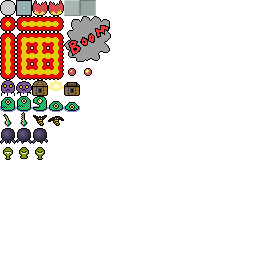
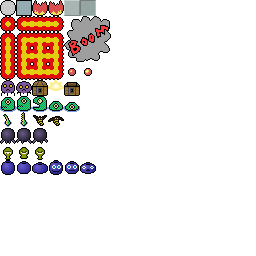
Blueberry monster. Also fixed a physics divide-by-zero glitch when sprites are in the exact same location.

Changed region(s): [[0.0, 0.625, 0.375, 0.6875]]

diff --git a/src/game/sprites/ps_sprite_blueberry.c b/src/game/sprites/ps_sprite_blueberry.c
@@ -1,0 +1,265 @@
+#include "ps.h"
+#include "game/ps_sprite.h"
+#include "game/ps_game.h"
+#include "akgl/akgl.h"
+#include <math.h>
+
+#define PS_BLUEBERRY_NODE_LIMIT 6
+#define PS_BLUEBERRY_NODE_OFFSET (PS_TILESIZE-5)
+#define PS_BLUEBERRY_WALK_SPEED 1.0
+#define PS_BLUEBERRY_SINEC 60
+#define PS_BLUEBERRY_BOUNCEM_DEFAULT 3.0
+#define PS_BLUEBERRY_INVINCIBLE_TIME 60
+
+/* Private sprite object.
+ */
+
+static double ps_blueberry_sinev[PS_BLUEBERRY_SINEC];
+static double ps_blueberry_walk_attenuationv[PS_BLUEBERRY_SINEC];
+static int ps_blueberry_sinev_valid=0;
+
+struct ps_sprite_blueberry {
+  struct ps_sprite hdr;
+  int nodec;
+  double dx,dy;
+  int bouncep; // Position in wave function.
+  double bouncem; // Magnitude of wave function, ie maximum bounce.
+  int invincible;
+};
+
+#define SPR ((struct ps_sprite_blueberry*)spr)
+
+/* Initialize bounce coefficients.
+ */
+
+static void ps_blueberry_initialize_sinev_if_needed() {
+  if (ps_blueberry_sinev_valid) return;
+  const double phase_shift=(M_PI*3.0)/2.0; // Start at the lowest point of the function.
+  int i=0; for (;i<PS_BLUEBERRY_SINEC;i++) {
+    double t=(i*M_PI*2.0)/PS_BLUEBERRY_SINEC+phase_shift;
+    ps_blueberry_sinev[i]=sin(t);
+  }
+  for (i=0;i<PS_BLUEBERRY_SINEC;i++) {
+    double t=(i*M_PI)/PS_BLUEBERRY_SINEC;
+    ps_blueberry_walk_attenuationv[i]=sin(t);
+  }
+  ps_blueberry_sinev_valid=1;
+}
+
+/* Delete.
+ */
+
+static void _ps_blueberry_del(struct ps_sprite *spr) {
+}
+
+/* Initialize.
+ */
+
+static int _ps_blueberry_init(struct ps_sprite *spr) {
+
+  ps_blueberry_initialize_sinev_if_needed();
+
+  SPR->bouncem=PS_BLUEBERRY_BOUNCEM_DEFAULT;
+
+  return 0;
+}
+
+/* Configure.
+ */
+
+static int _ps_blueberry_configure(struct ps_sprite *spr,struct ps_game *game,const int *argv,int argc) {
+  return 0;
+}
+
+/* Rebild nodes.
+ */
+
+static int ps_blueberry_rebuild(struct ps_sprite *spr,int nodec) {
+  if ((nodec<1)||(nodec>PS_BLUEBERRY_NODE_LIMIT)) return -1;
+
+  SPR->nodec=nodec;
+  
+  return 0;
+}
+
+/* Begin step.
+ */
+
+static int ps_blueberry_begin_step(struct ps_sprite *spr,struct ps_game *game) {
+
+  double t=(rand()%628)/100.0;
+  SPR->dx=PS_BLUEBERRY_WALK_SPEED*cos(t);
+  SPR->dy=PS_BLUEBERRY_WALK_SPEED*sin(t);
+
+  /* If we are currently within 25% of an edge, point towards the bulk of the screen. */
+  if (spr->x<PS_SCREENW>>2) {
+    if (SPR->dx<0.0) SPR->dx=-SPR->dx;
+  } else if (spr->x>(PS_SCREENW*3)>>2) {
+    if (SPR->dx>0.0) SPR->dx=-SPR->dx;
+  }
+  if (spr->y<PS_SCREENH>>2) {
+    if (SPR->dy<0.0) SPR->dy=-SPR->dy;
+  } else if (spr->y>(PS_SCREENH*3)>>2) {
+    if (SPR->dy>0.0) SPR->dy=-SPR->dy;
+  }
+  
+  return 0;
+}
+
+/* End step.
+ */
+
+static int ps_blueberry_end_step(struct ps_sprite *spr,struct ps_game *game) {
+  SPR->bouncep=0;
+  return 0;
+}
+
+/* Update step.
+ */
+
+static int ps_blueberry_update_step(struct ps_sprite *spr,struct ps_game *game) {
+  spr->x+=SPR->dx*ps_blueberry_walk_attenuationv[SPR->bouncep];
+  spr->y+=SPR->dy*ps_blueberry_walk_attenuationv[SPR->bouncep];
+  return 0;
+}
+
+/* Update.
+ */
+
+static int _ps_blueberry_update(struct ps_sprite *spr,struct ps_game *game) {
+
+  if (SPR->invincible>0) {
+    SPR->invincible--;
+  }
+
+  if (!SPR->nodec) {
+    if (ps_blueberry_rebuild(spr,PS_BLUEBERRY_NODE_LIMIT)<0) return -1;
+  }
+
+  if (!SPR->bouncep) {
+    if (ps_blueberry_begin_step(spr,game)<0) return -1;
+  }
+
+  if (++(SPR->bouncep)>=PS_BLUEBERRY_SINEC) {
+    if (ps_blueberry_end_step(spr,game)<0) return -1;
+  } else {
+    if (ps_blueberry_update_step(spr,game)<0) return -1;
+  }
+
+  return 0;
+}
+
+/* Draw.
+ */
+
+static int _ps_blueberry_draw(struct akgl_vtx_maxtile *vtxv,int vtxa,struct ps_sprite *spr) {
+  int vtxc=SPR->nodec;
+  if (vtxc>vtxa) return vtxc;
+
+  int compression; // 0..2, add to tileid to reflect compression from neighbors.
+  switch ((SPR->bouncep*6)/PS_BLUEBERRY_SINEC) {
+    case 0: compression=2; break;
+    case 1: compression=1; break;
+    case 2: compression=0; break;
+    case 3: compression=0; break;
+    case 4: compression=1; break;
+    case 5: compression=2; break;
+  }
+
+  /* Set up the bottom vertex. */
+  vtxv->x=spr->x;
+  vtxv->y=spr->y;
+  vtxv->tileid=spr->tileid+3+compression;
+  vtxv->size=PS_TILESIZE;
+  vtxv->ta=0x00;
+  vtxv->pr=vtxv->pg=vtxv->pb=0x80;
+  vtxv->a=0xff;
+  vtxv->t=0;
+  vtxv->xform=AKGL_XFORM_NONE;
+
+  /* Set up invincibility flash. */
+  if (SPR->invincible) {
+    vtxv->tr=0xff;
+    vtxv->tg=0x00;
+    vtxv->tb=0x00;
+    vtxv->ta=(SPR->invincible*0xff)/PS_BLUEBERRY_INVINCIBLE_TIME;
+  }
+
+  /* Copy to other vertices. Update (y) and (tileid). */
+  double y=spr->y;
+  double offset=PS_BLUEBERRY_NODE_OFFSET+ps_blueberry_sinev[SPR->bouncep]*SPR->bouncem;
+  int i=1; for (;i<SPR->nodec;i++) {
+    memcpy(vtxv+i,vtxv,sizeof(struct akgl_vtx_maxtile));
+    y-=offset;
+    vtxv[i].tileid-=3;
+    vtxv[i].x=spr->x;
+    vtxv[i].y=y;
+  }
+  
+  return vtxc;
+}
+
+/* Hurt.
+ */
+
+static int _ps_blueberry_hurt(struct ps_game *game,struct ps_sprite *spr,struct ps_sprite *assailant) {
+
+  if (SPR->invincible) return 0;
+
+  if ((SPR->nodec<=1)||!spr->grpc) {
+    return ps_sprite_kill_later(spr,game);
+  }
+
+  struct ps_sprite *other=ps_sprite_new(&ps_sprtype_blueberry);
+  if (!other) return -1;
+  struct ps_sprite_blueberry *OTHER=(struct ps_sprite_blueberry*)other;
+
+  if (ps_sprite_join_all(other,spr)<0) {
+    ps_sprite_kill(other);
+    ps_sprite_del(other);
+    return -1;
+  }
+  ps_sprite_del(other);
+
+  other->x=spr->x;
+  other->y=spr->y;
+  other->radius=spr->radius;
+  other->shape=spr->shape;
+  other->collide_hole=spr->collide_hole;
+  other->collide_sprites=spr->collide_sprites;
+  other->tsid=spr->tsid;
+  other->layer=spr->layer;
+  other->tileid=spr->tileid;
+
+  int nodec0=SPR->nodec;
+  SPR->nodec>>=1;
+  OTHER->nodec=nodec0-SPR->nodec;
+
+  SPR->invincible=PS_BLUEBERRY_INVINCIBLE_TIME;
+  OTHER->invincible=PS_BLUEBERRY_INVINCIBLE_TIME;
+
+  OTHER->bouncep=0;
+
+  return 0;
+}
+
+/* Type definition.
+ */
+
+const struct ps_sprtype ps_sprtype_blueberry={
+  .name="blueberry",
+  .objlen=sizeof(struct ps_sprite_blueberry),
+
+  .radius=PS_TILESIZE>>1,
+  .shape=PS_SPRITE_SHAPE_CIRCLE,
+  .layer=100,
+
+  .init=_ps_blueberry_init,
+  .del=_ps_blueberry_del,
+  .configure=_ps_blueberry_configure,
+  .update=_ps_blueberry_update,
+  .draw=_ps_blueberry_draw,
+  
+  .hurt=_ps_blueberry_hurt,
+
+};

diff --git a/src/util/ps_geometry.c b/src/util/ps_geometry.c
@@ -311,8 +311,10 @@ int ps_fbox_collide_circle(struct ps_overlap *overlap,struct ps_fbox a,struct ps
 
   if (overlap) {
     overlap->penetration=penetration;
+    if (!distance) distance=1.0;
     overlap->axis.dx=(b.x-cornerx)/distance;
     overlap->axis.dy=(b.y-cornery)/distance;
+    if (!overlap->axis.dx&&!overlap->axis.dy) overlap->axis.dy=1.0;
   }
   
   return 1;
@@ -346,11 +348,15 @@ int ps_circle_collide_circle(struct ps_overlap *overlap,struct ps_circle a,struc
   double penetration=radiussum-distance;
   if (penetration<=0.0) return 0;
 
-  /* Calculate unit vector if requested. */
+  /* Calculate unit vector if requested.
+   * The zero-checks here are hugely important: If two circles are directly upon each other, we must not fail.
+   */
   if (overlap) {
     overlap->penetration=penetration;
+    if (!distance) distance=1.0;
     overlap->axis.dx=(b.x-a.x)/distance;
     overlap->axis.dy=(b.y-a.y)/distance;
+    if (!overlap->axis.dx&&!overlap->axis.dy) overlap->axis.dy=1.0;
   }
 
   return 1;

diff --git a/src/game/ps_sprite.h b/src/game/ps_sprite.h
@@ -85,6 +85,7 @@ int ps_sprgrp_remove_sprite(struct ps_sprgrp *grp,struct ps_sprite *spr);
 int ps_sprite_kill(struct ps_sprite *spr); // Remove all groups.
 int ps_sprgrp_clear(struct ps_sprgrp *grp); // Remove all sprites.
 int ps_sprgrp_kill(struct ps_sprgrp *grp); // Remove all groups from all sprites.
+int ps_sprite_join_all(struct ps_sprite *spr,struct ps_sprite *ref); // Add (spr) to every group that (ref) is in.
 
 /* Largely a convenience: Add (spr) to DEATHROW group and otherwise leave it untouched.
  * When the update cycle completes, the sprite will be killed.
@@ -137,6 +138,7 @@ extern const struct ps_sprtype ps_sprtype_missile;
 extern const struct ps_sprtype ps_sprtype_treasurechest;
 extern const struct ps_sprtype ps_sprtype_dragonbug;
 extern const struct ps_sprtype ps_sprtype_bumblebat;
+extern const struct ps_sprtype ps_sprtype_blueberry;
 
 /* ps_sprdef: Resource type combining sprtype with parameters.
  * This is the interface you typically want for creating new sprites.

diff --git a/src/game/ps_physics.c b/src/game/ps_physics.c
@@ -65,8 +65,8 @@ static int ps_physics_search_event(const struct ps_physics *physics,const struct
     int ck=(lo+hi)>>1;
          if (a<physics->eventv[ck].a) hi=ck;
     else if (a>physics->eventv[ck].a) lo=ck+1;
-    else if (b>physics->eventv[ck].b) hi=ck;
-    else if (b<physics->eventv[ck].b) lo=ck+1;
+    else if (b<physics->eventv[ck].b) hi=ck;
+    else if (b>physics->eventv[ck].b) lo=ck+1;
     else return ck;
   }
   return -lo-1;
@@ -120,6 +120,7 @@ static struct ps_coll *ps_physics_add_coll(struct ps_physics *physics) {
   }
   struct ps_coll *coll=physics->collv+physics->collc;
   physics->collc++;
+  memset(coll,0,sizeof(struct ps_coll));
   return coll;
 }
 

diff --git a/src/main/ps_main.c b/src/main/ps_main.c
@@ -55,10 +55,10 @@ static int ps_main_init() {
   if (!(ps_game=ps_game_new())) return -1;
 
   // TODO The process of game initialization will happen interactively, via GUI.
-  switch (2) { // <-- very temporary. Set desired player count here.
+  switch (1) { // <-- very temporary. Set desired player count here.
     case 1: {
         if (ps_game_set_player_count(ps_game,1)<0) return -1;
-        if (ps_game_set_player_skills(ps_game,1,PS_SKILL_HOOKSHOT|PS_SKILL_COMBAT)<0) return -1;
+        if (ps_game_set_player_skills(ps_game,1,PS_SKILL_ARROW|PS_SKILL_COMBAT)<0) return -1;
       } break;
     case 2: {
         if (ps_game_set_player_count(ps_game,2)<0) return -1;

diff --git a/src/game/ps_sprtype.c b/src/game/ps_sprtype.c
@@ -23,6 +23,7 @@ const struct ps_sprtype *ps_sprtype_by_name(const char *name,int namec) {
   if ((namec==13)&&!memcmp(name,"treasurechest",13)) return &ps_sprtype_treasurechest;
   if ((namec==9)&&!memcmp(name,"dragonbug",9)) return &ps_sprtype_dragonbug;
   if ((namec==9)&&!memcmp(name,"bumblebat",9)) return &ps_sprtype_bumblebat;
+  if ((namec==9)&&!memcmp(name,"blueberry",9)) return &ps_sprtype_blueberry;
 
   return 0;
 }

diff --git a/src/game/sprites/ps_sprite_hero.c b/src/game/sprites/ps_sprite_hero.c
@@ -202,6 +202,7 @@ static int ps_hero_walk_inhibited_by_actions(struct ps_sprite *spr) {
 
 static int ps_hero_walk(struct ps_sprite *spr,struct ps_game *game) {
 
+
   if (!SPR->indx&&!SPR->indy) {
     SPR->walk_in_progress=0;
     return 0;
@@ -214,6 +215,7 @@ static int ps_hero_walk(struct ps_sprite *spr,struct ps_game *game) {
   SPR->walk_in_progress=1;
   spr->x+=SPR->indx;
   spr->y+=SPR->indy;
+
   
   return 0;
 }

diff --git a/src/game/ps_sprgrp.c b/src/game/ps_sprgrp.c
@@ -229,6 +229,18 @@ int ps_sprgrp_kill(struct ps_sprgrp *grp) {
   return 0;
 }
 
+/* Join all groups matching reference.
+ */
+ 
+int ps_sprite_join_all(struct ps_sprite *spr,struct ps_sprite *ref) {
+  if (!spr||!ref) return -1;
+  if (spr==ref) return 0;
+  int i=ref->grpc; while (i-->0) {
+    if (ps_sprgrp_add_sprite(ref->grpv[i],spr)<0) return -1;
+  }
+  return 0;
+}
+
 /* Add to DEATHROW list.
  */
  
